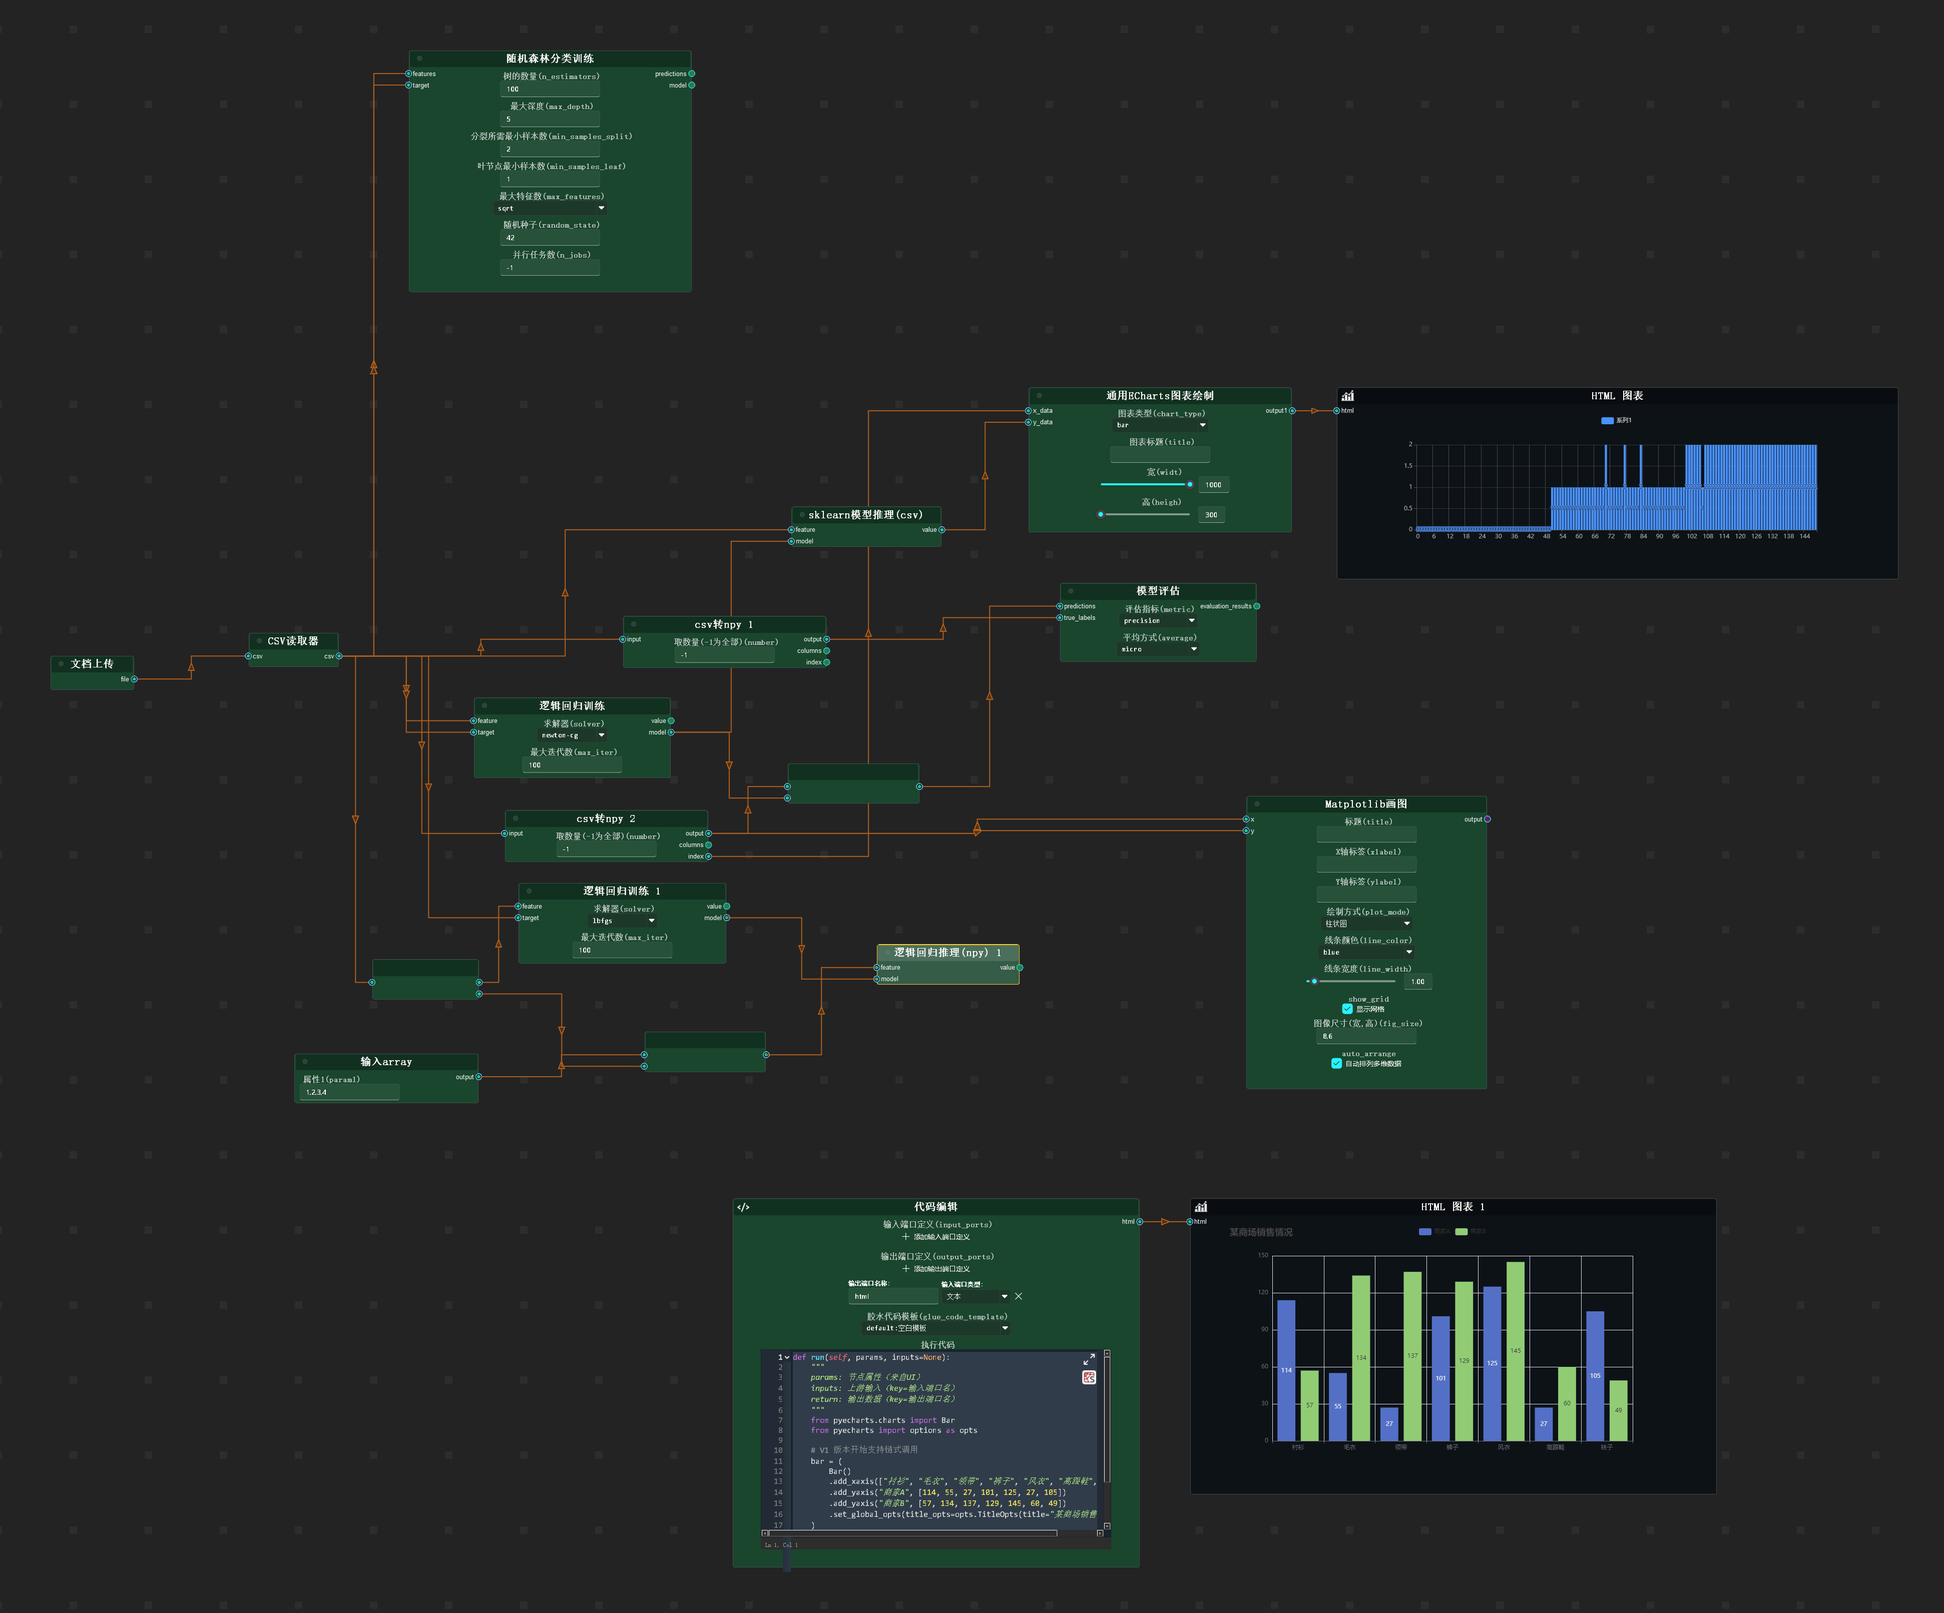
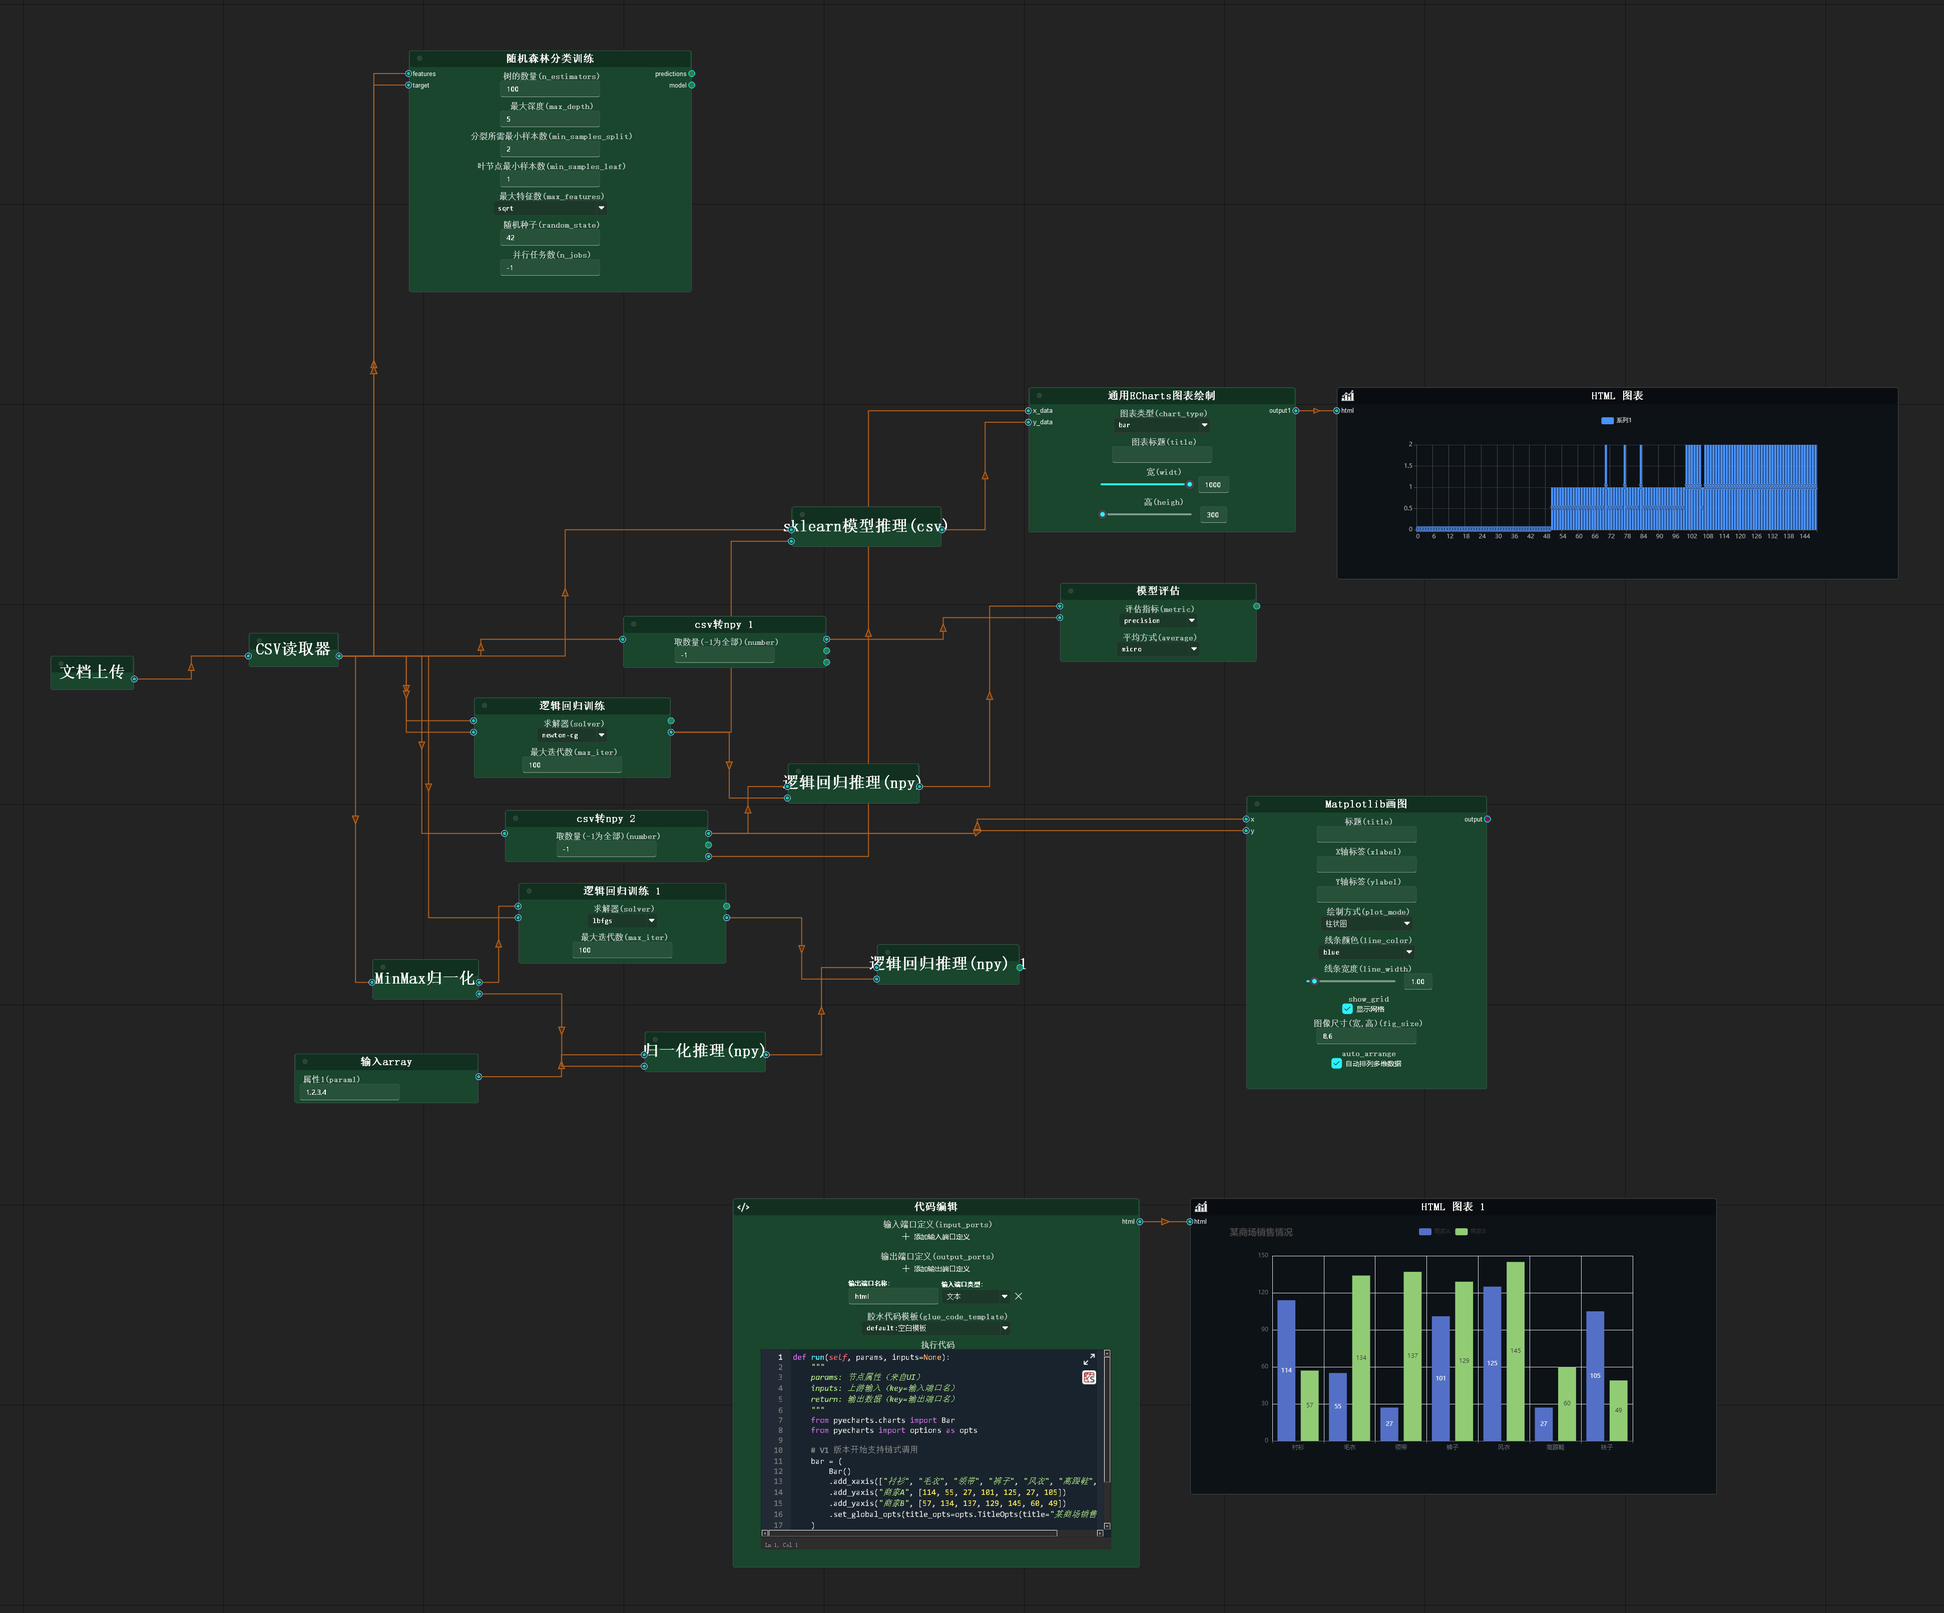
feat(config): 重构配置系统并优化画布节点性能
- 添加 RangeConfigItem 配置类型支持数值范围设置
- 实现 Settings 配置类的单例模式确保全局唯一配置实例
- 新增 node_proxy_size 配置项控制节点代理模式绘制大小
- 扩大 canvas_auto_save_interval 配置项范围从60-120到15-300秒
- 在设置界面中添加 RangeSettingCard 组件用于数值配置
- 修复画布节点代理模式下的文字显示和定位问题
- 优化节点文字更新机制确保名称变更时同步显示
- 调整画布更新策略提高渲染性能
- 修复配置项信号连接方式确保设置更改时自动保存
- 更新工作流文件中的节点ID以适配新的配置系统

diff --git a/app/widgets/custom_nodegraphqt/custom_node_item.py b/app/widgets/custom_nodegraphqt/custom_node_item.py
@@ -2,12 +2,15 @@ from collections import OrderedDict
 
 from NodeGraphQt.constants import NodeEnum, ICON_NODE_BASE, ITEM_CACHE_MODE, PortTypeEnum, LayoutDirectionEnum, \
     Z_VAL_NODE
+from NodeGraphQt.qgraphics.node_abstract import AbstractNodeItem
 from NodeGraphQt.qgraphics.node_base import NodeItem
 from NodeGraphQt.qgraphics.node_overlay_disabled import XDisabledItem
 from NodeGraphQt.qgraphics.node_text_item import NodeTextItem
 from PyQt5 import QtWidgets
 from Qt import QtCore
 from qtpy import QtGui
+
+from app.utils.config import Settings
 
 
 class CustomNodeItem(NodeItem):
@@ -33,9 +36,15 @@ class CustomNodeItem(NodeItem):
         self._input_items = OrderedDict()
         self._output_items = OrderedDict()
         self._widgets = OrderedDict()
-        self._proxy_mode = True
-        self._proxy_mode_threshold = 70
+        self._proxy_mode = False
+        self._proxy_mode_threshold = Settings.get_instance().node_proxy_size.value
         self.setZValue(Z_VAL_NODE)
+        self._proxy_text_item = QtWidgets.QGraphicsTextItem(self.name, self)
+        proxy_font = QtGui.QFont()
+        proxy_font.setPointSize(24)  # 大号字体，可调
+        proxy_font.setBold(True)
+        self._proxy_text_item.setFont(proxy_font)
+        self._proxy_text_item.setVisible(False)  # 初始隐藏
 
     def _set_text_color(self, color=None):
         """
@@ -49,10 +58,22 @@ class CustomNodeItem(NodeItem):
         for port, text in self._output_items.items():
             text.setDefaultTextColor(QtGui.QColor("white"))
         self._text_item.setDefaultTextColor(QtGui.QColor("white"))
+        self._proxy_text_item.setDefaultTextColor(QtGui.QColor("white"))
 
     @property
     def icon(self):
         return self._properties['icon']
+
+    @AbstractNodeItem.name.setter
+    def name(self, name=''):
+        AbstractNodeItem.name.fset(self, name)
+        if name == self._text_item.toPlainText():
+            return
+        self._text_item.setPlainText(name)
+        self._proxy_text_item.setPlainText(name)
+        if self.scene():
+            self.align_label()
+        self.update()
 
     @icon.setter
     def icon(self, value=None):
@@ -223,6 +244,8 @@ class CustomNodeItem(NodeItem):
         self.align_widgets(v_offset=header_height + 8.0)  # ⬅ widgets 下移
 
         self.update()
+        if self._proxy_mode:
+            self._update_proxy_text_position()
 
     def remove_widget(self, widget):
         widget = self._widgets.pop(widget.get_name(), None)
@@ -380,19 +403,21 @@ class CustomNodeItem(NodeItem):
 
         self.set_proxy_mode(width < self._proxy_mode_threshold)
 
-    def set_proxy_mode(self, mode):
-        """
-        Set whether to draw the node with proxy mode.
-        (proxy mode toggles visibility for some qgraphic items in the node.)
+    def _update_proxy_text_position(self):
+        if not self._proxy_mode:
+            return
+        rect = self.boundingRect()
+        text_rect = self._proxy_text_item.boundingRect()
+        x = rect.center().x() - text_rect.width() / 2
+        y = rect.center().y() - text_rect.height() / 2
+        self._proxy_text_item.setPos(x, y)
 
-        Args:
-            mode (bool): true to enable proxy mode.
-        """
+    def set_proxy_mode(self, mode):
         if mode is self._proxy_mode:
             return
         self._proxy_mode = mode
 
-        visible = not mode
+        visible = not mode  # 正常模式下可见
 
         # disable overlay item.
         self._x_item.proxy_mode = self._proxy_mode
@@ -401,21 +426,20 @@ class CustomNodeItem(NodeItem):
         for w in self._widgets.values():
             w.widget().setVisible(visible)
 
-        # port text is not visible in vertical layout.
-        if self.layout_direction is LayoutDirectionEnum.VERTICAL.value:
-            port_text_visible = False
-        else:
-            port_text_visible = visible
+        # port text visibility (horizontal layout only)
+        port_text_visible = visible and (self.layout_direction == LayoutDirectionEnum.HORIZONTAL.value)
 
-        # input port text visibility.
-        for port, text in self._input_items.items():
-            if port.display_name:
-                text.setVisible(port_text_visible)
+        for text in self._input_items.values():
+            text.setVisible(port_text_visible and text.isVisible())
+        for text in self._output_items.values():
+            text.setVisible(port_text_visible and text.isVisible())
 
-        # output port text visibility.
-        for port, text in self._output_items.items():
-            if port.display_name:
-                text.setVisible(port_text_visible)
-
+        # 主标题（正常模式）
         self._text_item.setVisible(visible)
-        self._icon_item.setVisible(visible)
+        # proxy 大标题（仅 proxy 模式显示）
+        self._proxy_text_item.setVisible(mode)
+
+        # 更新 proxy 文字内容（防止 name 改变）
+        if mode:
+            self._proxy_text_item.setPlainText(self.name)
+            self._update_proxy_text_position()

diff --git a/app/utils/config.py b/app/utils/config.py
@@ -2,7 +2,7 @@
 from pathlib import Path
 
 from qfluentwidgets import ConfigSerializer, ConfigItem, QConfig, OptionsValidator, BoolValidator, FolderListValidator, \
-    RangeValidator, OptionsConfigItem, ConfigValidator
+    RangeValidator, OptionsConfigItem, ConfigValidator, RangeConfigItem
 from enum import Enum
 
 from app.utils.utils import resource_path
@@ -35,31 +35,6 @@ class QuickComponentsSerializer(ConfigSerializer):
 
 class Settings(QConfig):
     _instance = None
-
-    def __new__(cls):
-        if cls._instance is None:
-            cls._instance = super().__new__(cls)
-        return cls._instance
-
-    @classmethod
-    def get_instance(cls):
-        """获取配置实例（单例模式）"""
-        if cls._instance is None:
-            cls._instance = cls()
-            CONFIG_FILE = resource_path("../app.config")
-            try:
-                cls._instance.load(CONFIG_FILE)
-            except:
-                # 首次运行，保存默认配置
-                cls._instance.save(CONFIG_FILE)
-                print(f"✅ 已创建默认配置文件: {CONFIG_FILE}")
-        return cls._instance
-
-    @classmethod
-    def save_config(cls):
-        """保存配置"""
-        if cls._instance:
-            cls._instance.save()
     # 版本信息
     current_version = "v0.2.3"
 
@@ -88,16 +63,17 @@ class Settings(QConfig):
 
     # ========== 新增：画布设置 ==========
     canvas_run_mode = OptionsConfigItem("Canvas", "RunMode", "subprocess运行",
-                                         OptionsValidator(["ipython运行", "subprocess运行"]))
+                                        OptionsValidator(["ipython运行", "subprocess运行"]))
     canvas_grid_mode = OptionsConfigItem("Canvas", "ShowGrid", "线网格",
-                                            OptionsValidator(["线网格", "点网格", "无网格"]))
+                                         OptionsValidator(["线网格", "点网格", "无网格"]))
+    node_proxy_size = RangeConfigItem("Canvas", "NodeProxySize", 120, RangeValidator(70, 300))
     canvas_grid_size = ConfigItem("Canvas", "GridSize", 20, RangeValidator(10, 30))
     canvas_auto_save = ConfigItem("Canvas", "AutoSave", True, BoolValidator())
-    canvas_auto_save_interval = ConfigItem("Canvas", "AutoSaveInterval", 60, RangeValidator(60, 120))
+    canvas_auto_save_interval = RangeConfigItem("Canvas", "AutoSaveInterval", 60, RangeValidator(15, 300))
     canvas_pipelayout = OptionsConfigItem("Canvas", "PipeLayout", "折线",
-                                            OptionsValidator(["直线", "曲线", "折线"]))
+                                          OptionsValidator(["直线", "曲线", "折线"]))
     canvas_direction = OptionsConfigItem("Canvas", "Direction", "水平",
-                                          OptionsValidator(["水平", "垂直"]))
+                                         OptionsValidator(["水平", "垂直"]))
 
     # ========== 新增：画布快捷组件 ==========
 
@@ -124,7 +100,7 @@ class Settings(QConfig):
         "Package",
         "DefaultPackages",
         [
-            "pyzmq","loguru", "pydantic", "pandas", "Pillow", "fastapi",
+            "pyzmq", "loguru", "pydantic", "pandas", "Pillow", "fastapi",
             "uvicorn", "python-lsp-server[all]", "asteval", "wcwidth",
             "pyarrow", "ipykernel", "matplotlib", "pyecharts"
         ],
@@ -139,3 +115,29 @@ class Settings(QConfig):
     llm_max_tokens = ConfigItem("LLM", "MaxTokens", 2048, RangeValidator(1024, 40960))
     llm_temperature = ConfigItem("LLM", "Temperature", 0.7, RangeValidator(0, 1))
     llm_enable_thinking = ConfigItem("LLM", "EnableThinking", True, BoolValidator())
+
+
+    def __new__(cls):
+        if cls._instance is None:
+            cls._instance = super().__new__(cls)
+        return cls._instance
+
+    @classmethod
+    def get_instance(cls):
+        """获取配置实例（单例模式）"""
+        if cls._instance is None:
+            cls._instance = cls()
+            CONFIG_FILE = resource_path("../app.config")
+            try:
+                cls._instance.load(CONFIG_FILE)
+            except:
+                # 首次运行，保存默认配置
+                cls._instance.save(CONFIG_FILE)
+                print(f"✅ 已创建默认配置文件: {CONFIG_FILE}")
+        return cls._instance
+
+    @classmethod
+    def save_config(cls):
+        """保存配置"""
+        if cls._instance:
+            cls._instance.save()

diff --git a/app/interfaces/settings_interface.py b/app/interfaces/settings_interface.py
@@ -8,7 +8,7 @@ from qfluentwidgets import (
     ScrollArea, SettingCardGroup, PushSettingCard, SwitchSettingCard,
     LineEdit, FluentIcon as FIF, InfoBar, MessageBox, TextEdit,
     OptionsSettingCard, FolderListSettingCard, OptionsValidator, Theme, setTheme, themeColor, PrimaryPushSettingCard,
-    FluentIcon
+    FluentIcon, RangeSettingCard
 )
 
 from app.utils.config import Settings
@@ -193,7 +193,7 @@ class SettingInterface(ScrollArea):
             texts=["ipython运行", "subprocess运行"],
             parent=self.canvasGroup
         )
-        self.cfg.canvas_run_mode.valueChanged.connect(self.onConfigChanged)
+        self.runModeCard.optionChanged.connect(self.onConfigChanged)
         self.showGridCard = OptionsSettingCard(
             self.cfg.canvas_grid_mode,
             get_icon("画布"),
@@ -203,7 +203,7 @@ class SettingInterface(ScrollArea):
             parent=self.canvasGroup
         )
         # 连接配置变化信号，自动保存
-        self.cfg.canvas_grid_mode.valueChanged.connect(self.onConfigChanged)
+        self.showGridCard.optionChanged.connect(self.onConfigChanged)
 
         self.autoSaveCard = SwitchSettingCard(
             get_icon("画布"),
@@ -213,16 +213,26 @@ class SettingInterface(ScrollArea):
             parent=self.canvasGroup
         )
         # 连接配置变化信号，自动保存
-        self.cfg.canvas_auto_save.valueChanged.connect(self.onConfigChanged)
+        self.autoSaveCard.checkedChanged.connect(self.onConfigChanged)
 
-        self.autoSaveIntervalCard = PushSettingCard(
-            "修改",
+        self.autoSaveIntervalCard = RangeSettingCard(
+            self.cfg.canvas_auto_save_interval,
             get_icon("画布"),
+            "修改",
             "自动保存间隔 (秒)",
-            str(self.cfg.canvas_auto_save_interval.value),
             parent=self.canvasGroup
         )
-        self.autoSaveIntervalCard.clicked.connect(self.onAutoSaveIntervalClicked)
+        self.autoSaveIntervalCard.valueChanged.connect(self.onConfigChanged)
+
+        self.NodeProxyCard = RangeSettingCard(
+            self.cfg.node_proxy_size,
+            get_icon("画布"),
+            "节点细节绘制距离",
+            "设置节点中控件最小绘制距离，如果超过距离会隐藏控件以提升画布性能",
+            parent=self.canvasGroup
+        )
+        # 连接配置变化信号，自动保存
+        self.NodeProxyCard.valueChanged.connect(self.onConfigChanged)
 
         self.pipelayoutCard = OptionsSettingCard(
             self.cfg.canvas_pipelayout,
@@ -233,7 +243,7 @@ class SettingInterface(ScrollArea):
             parent=self.canvasGroup
         )
         # 连接配置变化信号，自动保存
-        self.cfg.canvas_pipelayout.valueChanged.connect(self.onConfigChanged)
+        self.pipelayoutCard.optionChanged.connect(self.onConfigChanged)
 
         self.pipeDirectionCard = OptionsSettingCard(
             self.cfg.canvas_direction,
@@ -244,12 +254,13 @@ class SettingInterface(ScrollArea):
             parent=self.canvasGroup
         )
         # 连接配置变化信号，自动保存
-        self.cfg.canvas_direction.valueChanged.connect(self.onConfigChanged)
+        self.pipeDirectionCard.optionChanged.connect(self.onConfigChanged)
 
         self.canvasGroup.addSettingCard(self.runModeCard)
-        self.canvasGroup.addSettingCard(self.showGridCard)
         self.canvasGroup.addSettingCard(self.autoSaveCard)
         self.canvasGroup.addSettingCard(self.autoSaveIntervalCard)
+        self.canvasGroup.addSettingCard(self.showGridCard)
+        self.canvasGroup.addSettingCard(self.NodeProxyCard)
         self.canvasGroup.addSettingCard(self.pipelayoutCard)
         self.canvasGroup.addSettingCard(self.pipeDirectionCard)
 
@@ -298,20 +309,6 @@ class SettingInterface(ScrollArea):
             ),
             min_val=5,
             max_val=100
-        )
-
-    def onAutoSaveIntervalClicked(self):
-        self.showNumberEditDialog(
-            "自动保存间隔",
-            self.cfg.canvas_auto_save_interval.value,
-            lambda x: (
-                self.cfg.set(self.cfg.canvas_auto_save_interval, x),
-                # 自动保存
-                self.cfg.save_config(),
-                self.configChanged.emit()
-            ),
-            min_val=10,
-            max_val=600
         )
 
     def onConfigChanged(self):

diff --git a/app/widgets/custom_nodegraphqt/custom_nodegraph.py b/app/widgets/custom_nodegraphqt/custom_nodegraph.py
@@ -602,4 +602,4 @@ class CustomNodeGraph(NodeGraph):
 
         self._viewer.setUpdatesEnabled(True)
         self._viewer.scene().blockSignals(False)
-        self._viewer.scene().update()
+        [n.view.draw_node() for n in nodes.values()]
